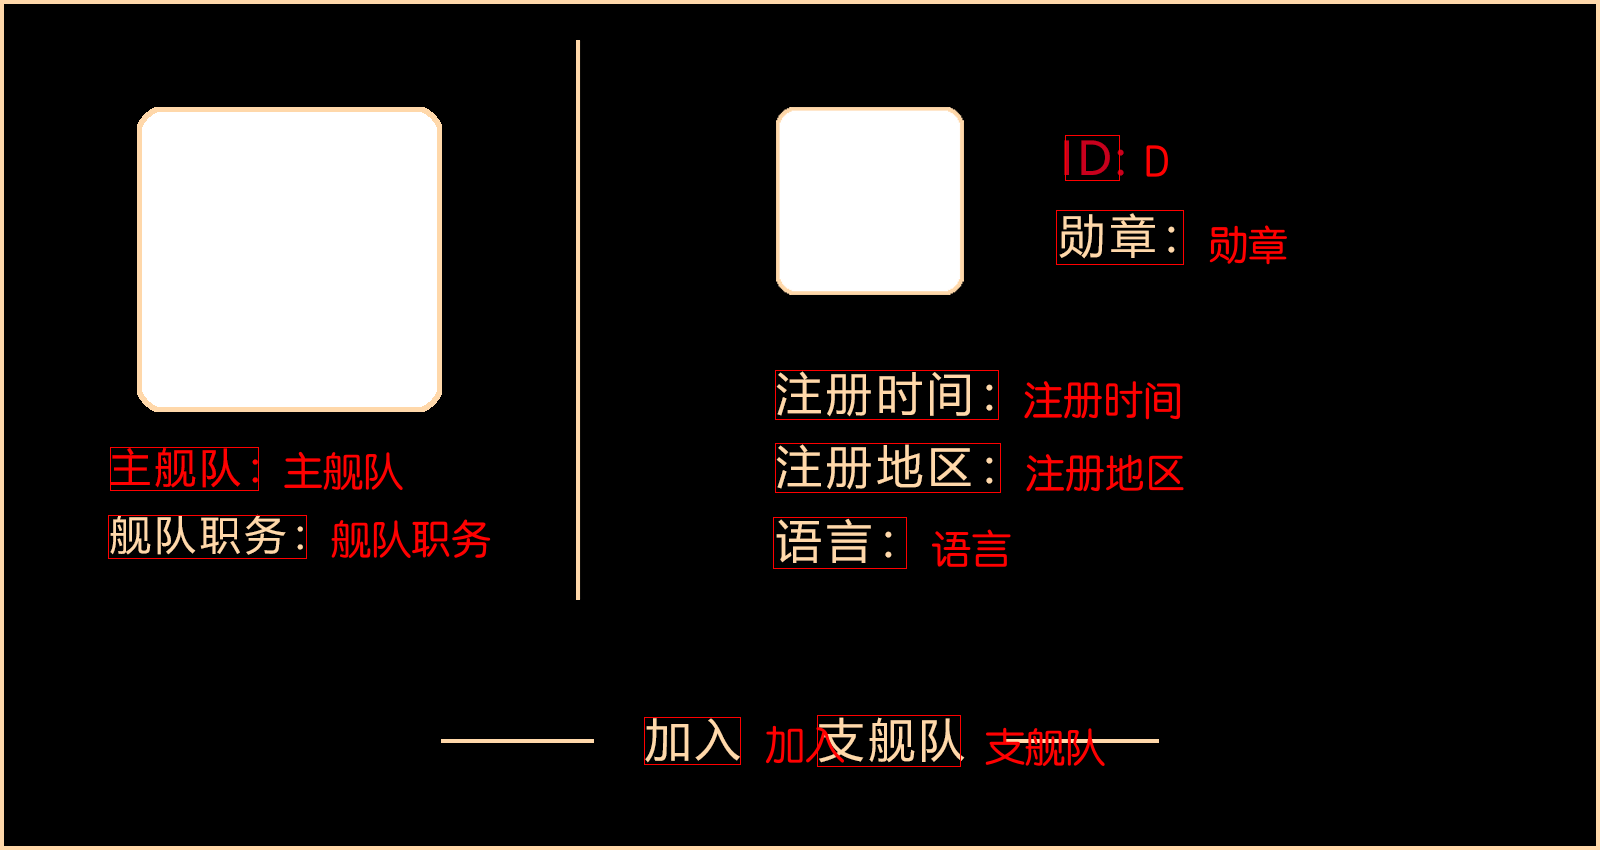
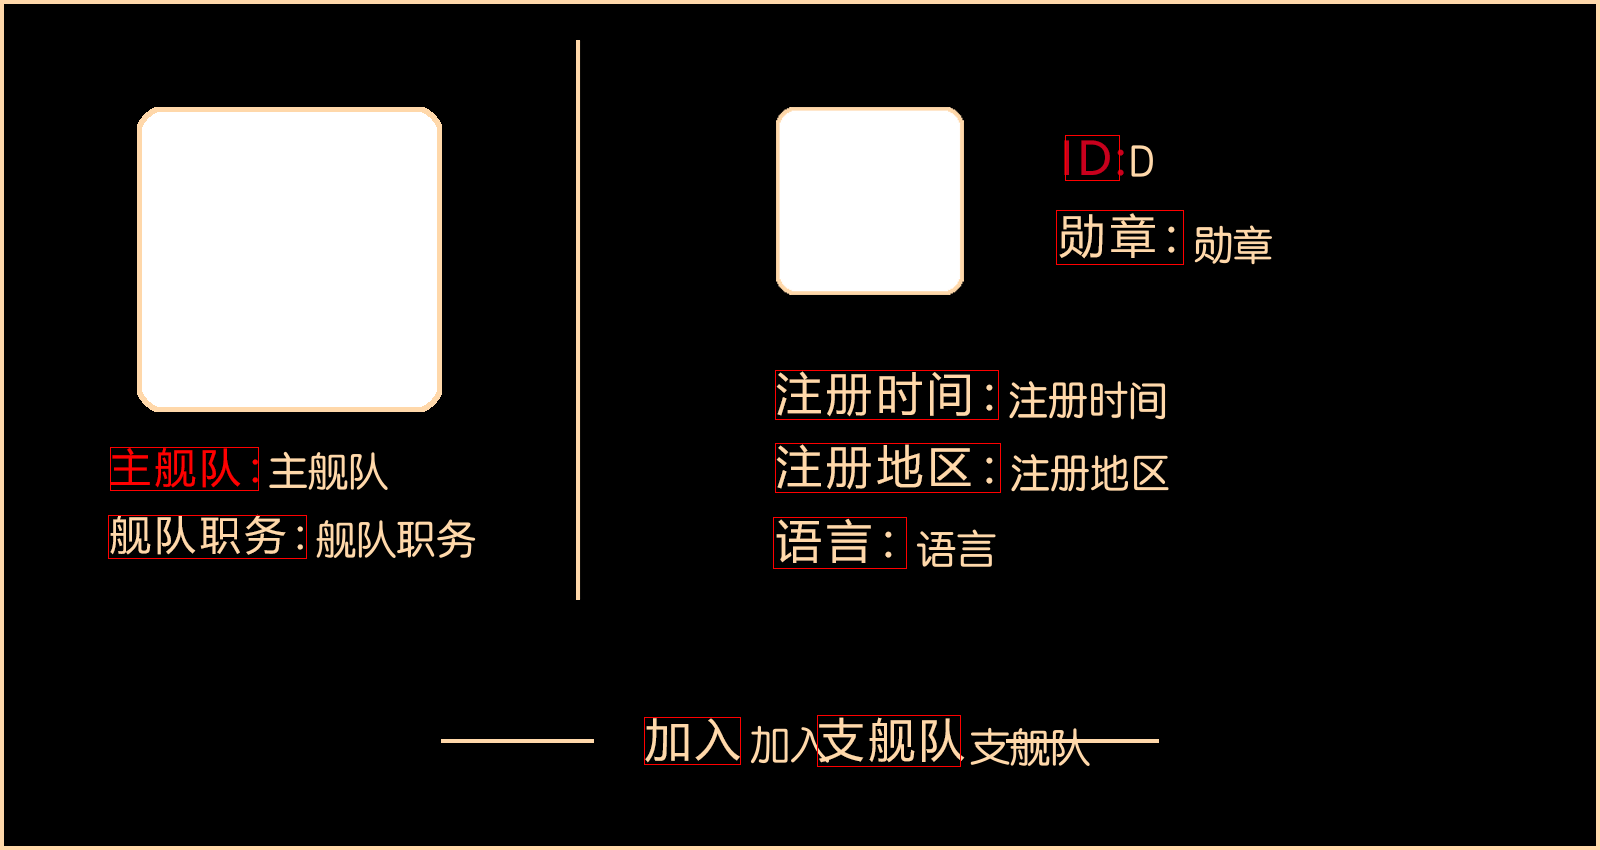
@danty 修改颜色代码逻辑，兼容元组输入

diff --git a/my_project/common.py b/my_project/common.py
@@ -223,6 +223,8 @@ class MakePhotos():
             draw.rectangle((x1, y1, x2, y2), outline='red')
             if "：" in item['text'] or ":" in item['text']:
                 item['text'] = item['text'].replace("：", "").replace(":", "")
+            if "(" in font_color:
+                font_color = eval(font_color)
             draw.text((x2 + adjust_coor[0], y2 - adjust_coor[1]), item['text'], font=font, fill=font_color)
             get_dict[item['text']] = (x2 + adjust_coor[0], y2 - adjust_coor[1])
         if save_path != "":
@@ -288,7 +290,9 @@ class MakePhotos():
 
                 # 将元组转换为字符串
                 addValueCoord[i] = str(new_tup)
-                print(addValueCoord[i])
+
+            if "(" in font_color:
+                font_color = eval(font_color)
             img_draw.text(ast.literal_eval(addValueCoord[i]), chars[i], font=ttf, fill=font_color)
         return self.back_ground_image
         # image.save("1.jpg")

diff --git a/my_project/ptojectAPI.py b/my_project/ptojectAPI.py
@@ -1,5 +1,4 @@
 import json
-import os
 
 from PIL import Image
 from common import IniFileEditor, MakePhotos, GetValue, Request
